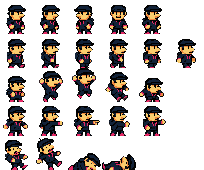
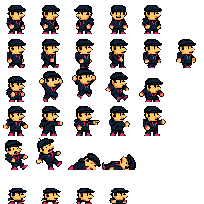
Memario 5.14.0: crouch art for the hero (new sheet row) and the raptor (low pose)
Claude-Session: https://claude.ai/code/session_01CQSpDxFNaCu5pFuXGUsUn3

diff --git a/memario/android/app/src/main/assets/www/index.html b/memario/android/app/src/main/assets/www/index.html
@@ -553,10 +553,10 @@ const BUG = [
 const BUG_ICE = spriteFromRows([...BUG_TOP, '..k.k..kk..k.k..', '.k..k......k..k.'], { k: '#1a5a7a', b: '#8fe8ff', B: '#ffffff', g: '#c8ffff', w: '#ffffff', r: '#4ff0ff' });
 
 // The hero: the player's own character sheet. 34x34 frames, facing right, feet on the bottom row.
-// Rows: idle(5) walk(6) jump(5: crouch, rise, apex, fall, land) action(5: point) hurt(4: hit, hit, KO, KO).
+// Rows: idle(5) walk(6) jump(5: crouch, rise, apex, fall, land) action(5: point) hurt(4: hit, hit, KO, KO) crouch(4).
 const HERO_IMG = new Image(), FACES_IMG = new Image();
 const HF = 34, HERO_CX = 16;                 // frame size, body centre column
-const HROW = { idle: 0, walk: 1, jump: 2, action: 3, hurt: 4 };
+const HROW = { idle: 0, walk: 1, jump: 2, action: 3, hurt: 4, crouch: 5 };   // crouch(4: still, shuffle, shuffle, tucked in the air)
 const heroReady = Promise.all([[HERO_IMG, 'img/hero.png'], [FACES_IMG, 'img/faces.png']].map(([img, src]) =>
   new Promise((res) => { img.onload = res; img.onerror = res; img.src = src; })));
 const TEX = {};
@@ -830,6 +830,18 @@ function buildCreatures() {
     f('O', 17, 11, 2, 2); f('K', 17, 13, 2, 1);                                                       // little arm
     f('K', 6 + leg * 2, 18, 4, 5); f('N', 7 + leg * 2, 18, 2, 4); f('P', 6 + leg * 2, 22, 5, 2);      // legs, pink shoes
     f('K', 13 - leg * 2, 18, 4, 5); f('N', 14 - leg * 2, 18, 2, 4); f('P', 13 - leg * 2, 22, 5, 2);
+  }));
+  ART.dinoLow = [0, 1, 2].map((fr) => draw(26, 24, (f) => {         // ducked: belly to the floor, head stretched forward, rider's eyes peeking over its back
+    const leg = fr === 1 ? 1 : 0, open = fr === 2;
+    f('K', 0, 17, 6, 3); f('N', 1, 18, 5, 1);                                                         // tail
+    f('K', 4, 16, 14, 6); f('N', 5, 17, 12, 4); f('2', 6, 17, 5, 1);                                  // body
+    f('O', 8, 20, 8, 1); f('P', 7, 16, 2, 1); f('P', 11, 16, 2, 1);                                   // belly, back stripes
+    f('K', 16, 14, 10, 7); f('N', 17, 15, 8, 5); f('2', 18, 15, 3, 1);                                // head, low and forward
+    f('K', 16, 13, 8, 2); f('N', 17, 13, 6, 1); f('K', 23, 14, 3, 1);                                 // the cap
+    f('W', 21, 15, 2, 2); f('K', 22, 15, 1, 2);                                                       // eye
+    if (open) { f('K', 19, 18, 7, 3); f('P', 20, 19, 6, 1); } else f('K', 20, 19, 6, 1);             // mouth
+    f('K', 5 + leg, 21, 5, 1); f('P', 4 + leg, 22, 7, 2);                                             // bent legs, pink shoes
+    f('K', 12 - leg, 21, 5, 1); f('P', 12 - leg, 22, 7, 2);
   }));
   ART.lift = draw(48, 7, (f) => { f('K', 0, 0, 48, 7); f('N', 1, 1, 46, 5); f('2', 1, 1, 46, 1); for (let i = 3; i < 46; i += 8) f('C', i, 3, 2, 2); });
   ART.drop = draw(32, 7, (f) => { f('K', 0, 0, 32, 7); f('Q', 1, 1, 30, 5); for (let i = 1; i < 31; i += 6) f('P', i, 1, 3, 5); f('W', 1, 1, 30, 1); });
@@ -2923,8 +2935,8 @@ function drawDino(d, cx0, ridden) {
   const fr = d.tongue > 0 || (ridden && d.mouth) ? 2 : Math.abs(ridden ? p.vx : d.vx) > 0.2 ? (frame >> 3) & 1 : 0;
   const x = Math.round(d.x - cx0) - 2, y = Math.round(d.y) - 1;
   ctx.save();
-  if (ridden && p.crouch) { ctx.translate(0, y + d.h + 1); ctx.scale(1, 0.42); ctx.translate(0, -(y + d.h + 1)); }   // ducking
-  if (d.dir < 0) { ctx.translate(x + 26, y); ctx.scale(-1, 1); ctx.drawImage(ART.dino[fr], 0, 0); } else ctx.drawImage(ART.dino[fr], x, y);
+  const spr = (ridden && p.crouch ? ART.dinoLow : ART.dino)[fr];      // ducking: low pose
+  if (d.dir < 0) { ctx.translate(x + 26, y); ctx.scale(-1, 1); ctx.drawImage(spr, 0, 0); } else ctx.drawImage(spr, x, y);
   ctx.restore();
   if (ridden && d.tongue > 0 && d.tip) {                         // the tongue
     const mx = Math.round(d.x + 11 + d.dir * 12 - cx0), tx = Math.round(d.tip[0] - cx0), ty = Math.round(d.tip[1]);
@@ -3076,6 +3088,7 @@ function heroFrame() {
     return [HROW.hurt, p.deadMax < 40 ? 1 : t < 10 ? 0 : t < 22 ? 1 : t < 34 ? 2 : 3];
   }
   const g = p.flip ? -1 : 1;
+  if (p.crouch) return [HROW.crouch, !p.grounded ? 3 : Math.abs(p.vx) > 0.2 ? 1 + (((p.anim / 9) | 0) % 2) : 0];
   if (!p.grounded) { const v = p.vy * g; return [HROW.jump, v < -2.5 ? 1 : v < 1.2 ? 2 : 3]; }
   if (p.actT > 0) return [HROW.action, [1, 2, 2, 2, 4][Math.min(4, ((20 - p.actT) / 4) | 0)]];
   if (p.landT > 0) return [HROW.jump, 4];
@@ -3091,16 +3104,15 @@ function drawPlayer(cx0) {
   const [row, col] = heroFrame();
   const fx = sx + (p.w >> 1);                                     // body centre on screen
   if (p.riding) {                                                 // seated on the raptor: legs hidden by its body
-    const low = p.crouch;                                         // ducked: rider flat on the raptor's back, raptor squashed down
-    ctx.save(); ctx.translate(fx - p.face * 2, sy + p.h - (low ? 8 : 13)); ctx.scale(p.face < 0 ? -1 : 1, low ? 0.36 : 1);
-    if (HERO_IMG.naturalWidth) ctx.drawImage(HERO_IMG, 0, 0, HF, 26, -HERO_CX, -26, HF, 26);
+    const low = p.crouch;                                         // ducked: only the cap shows over the raptor's back
+    ctx.save(); ctx.translate(fx - p.face * (low ? 4 : 2), sy + p.h - (low ? 0 : 13)); ctx.scale(p.face < 0 ? -1 : 1, 1);
+    if (HERO_IMG.naturalWidth) { if (low) ctx.drawImage(HERO_IMG, 0, HROW.crouch * HF, HF, HF, -HERO_CX, -HF - 1, HF, HF); else ctx.drawImage(HERO_IMG, 0, 0, HF, 26, -HERO_CX, -26, HF, 26); }
     ctx.restore(); drawDino(p.riding, cx0, true); return;
   }
   ctx.save();
   if (p.flip) { ctx.translate(fx, sy); ctx.scale(p.face < 0 ? -1 : 1, -1); }
   else { ctx.translate(fx, sy + p.h); ctx.scale(p.face < 0 ? -1 : 1, 1); }
   if (abil.tiny || abil.giant) ctx.scale(abil.tiny ? 0.6 : 1.5, abil.tiny ? 0.6 : 1.5);   // SPRITE SCALE
-  if (p.crouch) ctx.scale(1.12, 0.64);                            // crouched
   if (p.sq && !p.dead && !reduceMotion) ctx.scale(1 + p.sq * 0.18, 1 - p.sq * 0.16);              // squash on landing, stretch on take-off
   if (HERO_IMG.naturalWidth) {
     ctx.drawImage(HERO_IMG, col * HF, row * HF, HF, HF, -HERO_CX, -HF, HF, HF);

diff --git a/memario/README.md b/memario/README.md
@@ -182,6 +182,8 @@ The platforming follows modern conventions and is tuned to feel snappy:
 - **Corner correction**: clip the corner of a block on the way up and you're nudged past it instead of stopped dead (hidden sectors excepted).
 - **Crouch**: hold down, anywhere, even mid-air or on the raptor. You get shorter (head down, feet put), crouch-walk slowly, and stay down under a low block until there's room.
   Crouched you're under a block tall, so you fit a one-block-high gap; on the raptor, the raptor ducks too and you ride through.
+  Both have their own crouch art: the hero's sheet has a crouch row (still, two shuffle frames, tucked in the air), and the raptor
+  has a low pose, belly to the floor and head forward, with your cap and eyes peeking over its back.
 - **Hitbox**: the hero is 10 pixels wide, narrower than a block, so jumping up through a one-block hole doesn't need perfect lining up.
 - **Phase Shift**: besides firewalls and conduits, walk (or jump) into any wall from the side and you drift through it to the
   first spot on the far side where you fit (up to 12 blocks). Floors and ceilings still hold.
